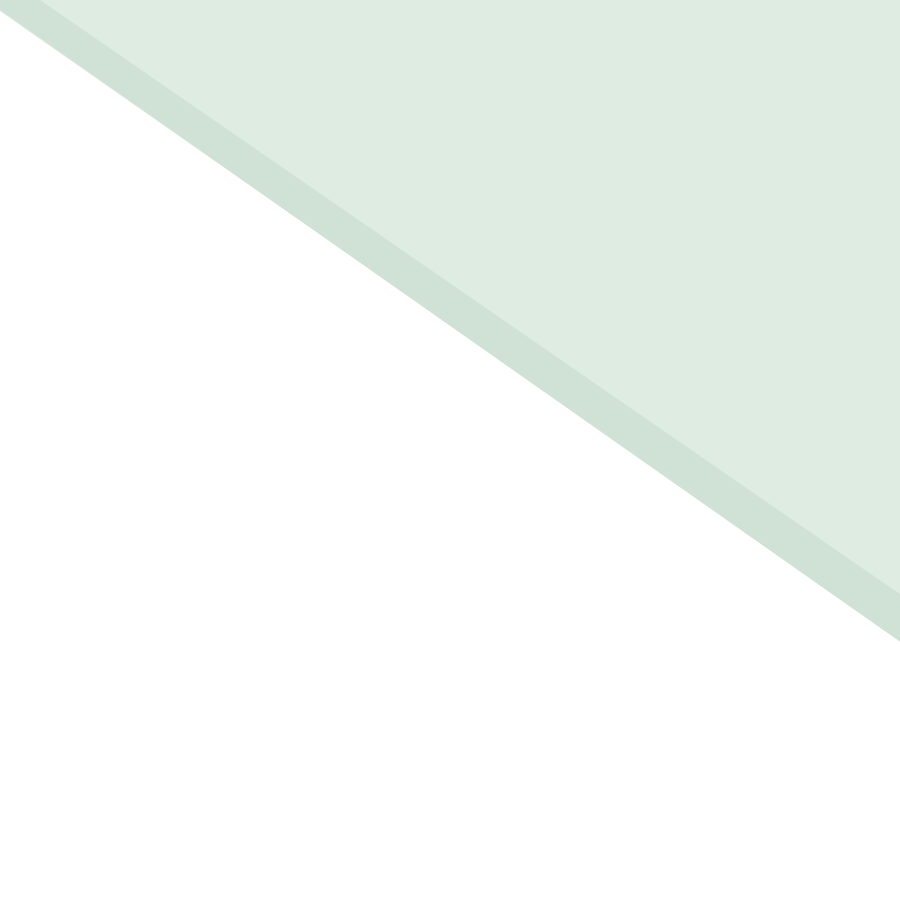
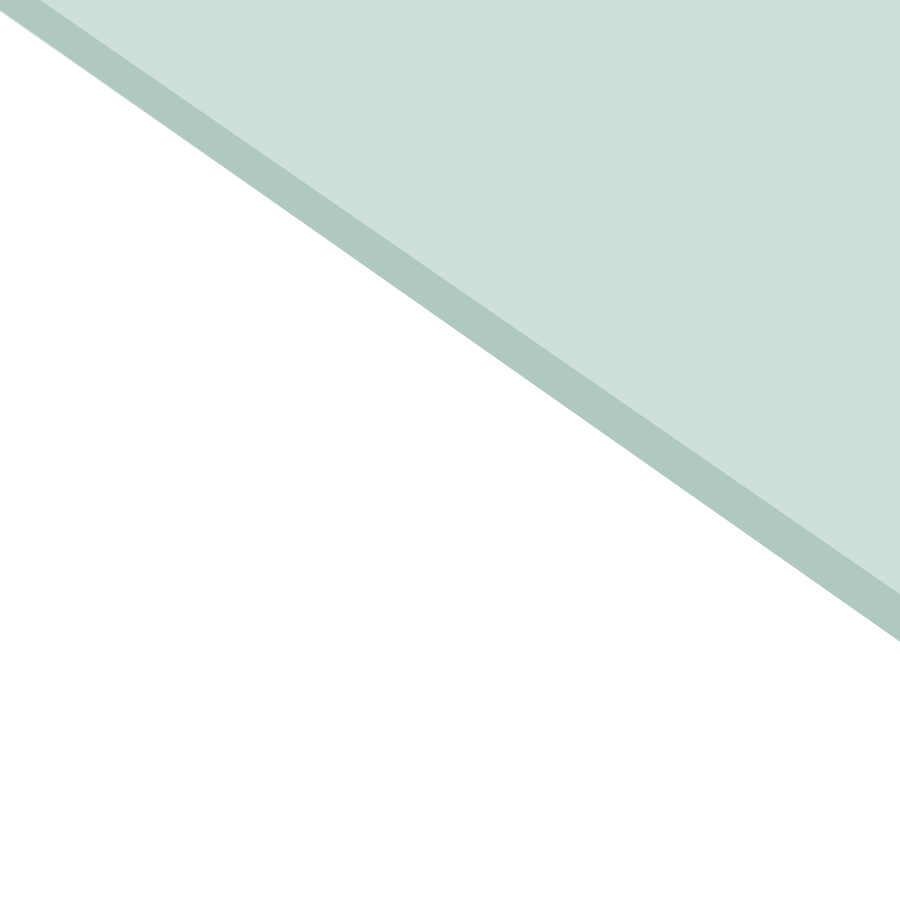
Changed color scheme and few spacing alterations

Changed region(s): [[0.0, 0.0, 1.0, 0.7156]]

diff --git a/CSS/Renwell_portfolio.css b/CSS/Renwell_portfolio.css
@@ -1,7 +1,7 @@
 /*TypeScale http://type-scale.com/?size=20&scale=1.333&text=A%20Visual%20Type%20Scale&webfont=Libre+Baskerville&font-family=%27Libre%20Baskerville%27,%20serif&font-weight=400&font-family-headers=&font-weight-headers=inherit&background-color=white&font-color=#333*/
 
 body {
-    background-color: #bdd6c4;
+    background-color: #bcd6ce;
     font-family: 'Source Sans Pro';
     display: grid;
     grid-template-columns: 30px 2fr 2fr 2fr 2fr 2fr 2fr 30px;
@@ -67,6 +67,7 @@ header {
     padding: 0;
     margin-right: auto;
     margin-left: .5em;
+    font-weight: 300;
 }
 
 #navigation a {
@@ -142,13 +143,13 @@ header {
     font-family: 'Source Sans Pro', 'Lato', Arial, Helvetica, sans-serif;
     font-weight: 300;
     font-size: 3rem;
-    margin: 20px 0 0 0;
+    margin: 20px 1em 0 .4em;
 }
 
 #intro p {
     grid-area: intro_paragraph;
     line-height: 1.5em;
-    margin-top: 30px;
+    margin: 30px 1em 0 1em;
 }
 
 #colors {
@@ -346,6 +347,10 @@ footer {
         margin-top: .4em;
     }
 
+    #page_body {
+        border-radius: 15px;
+    }
+
     .skills span {
         height: 190px;
         width: 190px;
@@ -353,6 +358,7 @@ footer {
 
     #intro h2{
         text-align: initial;
+        margin-left: 0;
     }
 
     #intro p {
@@ -360,7 +366,7 @@ footer {
         margin-top: 30px;
         text-align: initial;
         margin-right: 2em;
-        font-size: 1.333rem;
+        margin-left: 0;
     }
 
     .color {
@@ -409,8 +415,13 @@ footer {
         grid-template-columns: 50px 1fr 1fr 1fr 50px;
         grid-template-rows: 1fr 60px .8fr;
         grid-column-gap: 10px;
+        padding-top: 60px;
     }
 
+    #intro p {
+        font-weight: 300;
+        font-size: 1.5rem;
+    }
     #title {
         margin-top: 2.7em;
     }
@@ -483,6 +494,19 @@ footer {
             '. . . . intro_heading.'
             '. space1 space2 space3 intro_paragraph.'
             ;
+    }
+
+    .skills span {
+        height: 250px;
+        width: 250px;
+    }
+    
+    #intro h2 {
+        margin-left: 1.2em; 
+    }
+
+    #intro p {
+        margin-left: 2.5em;
     }
 }
 @media (min-width: 1850px) {

diff --git a/Javascript/Renwell_portfolio.js b/Javascript/Renwell_portfolio.js
@@ -11,7 +11,7 @@ $(document).ready(function () {
     });
 
     $(skills).each(function(i) {
-        $(this).delay(400*i).fadeIn();
+        $(this).delay(500*i).fadeIn();
     });
 
     $(color).each(function(i) {
